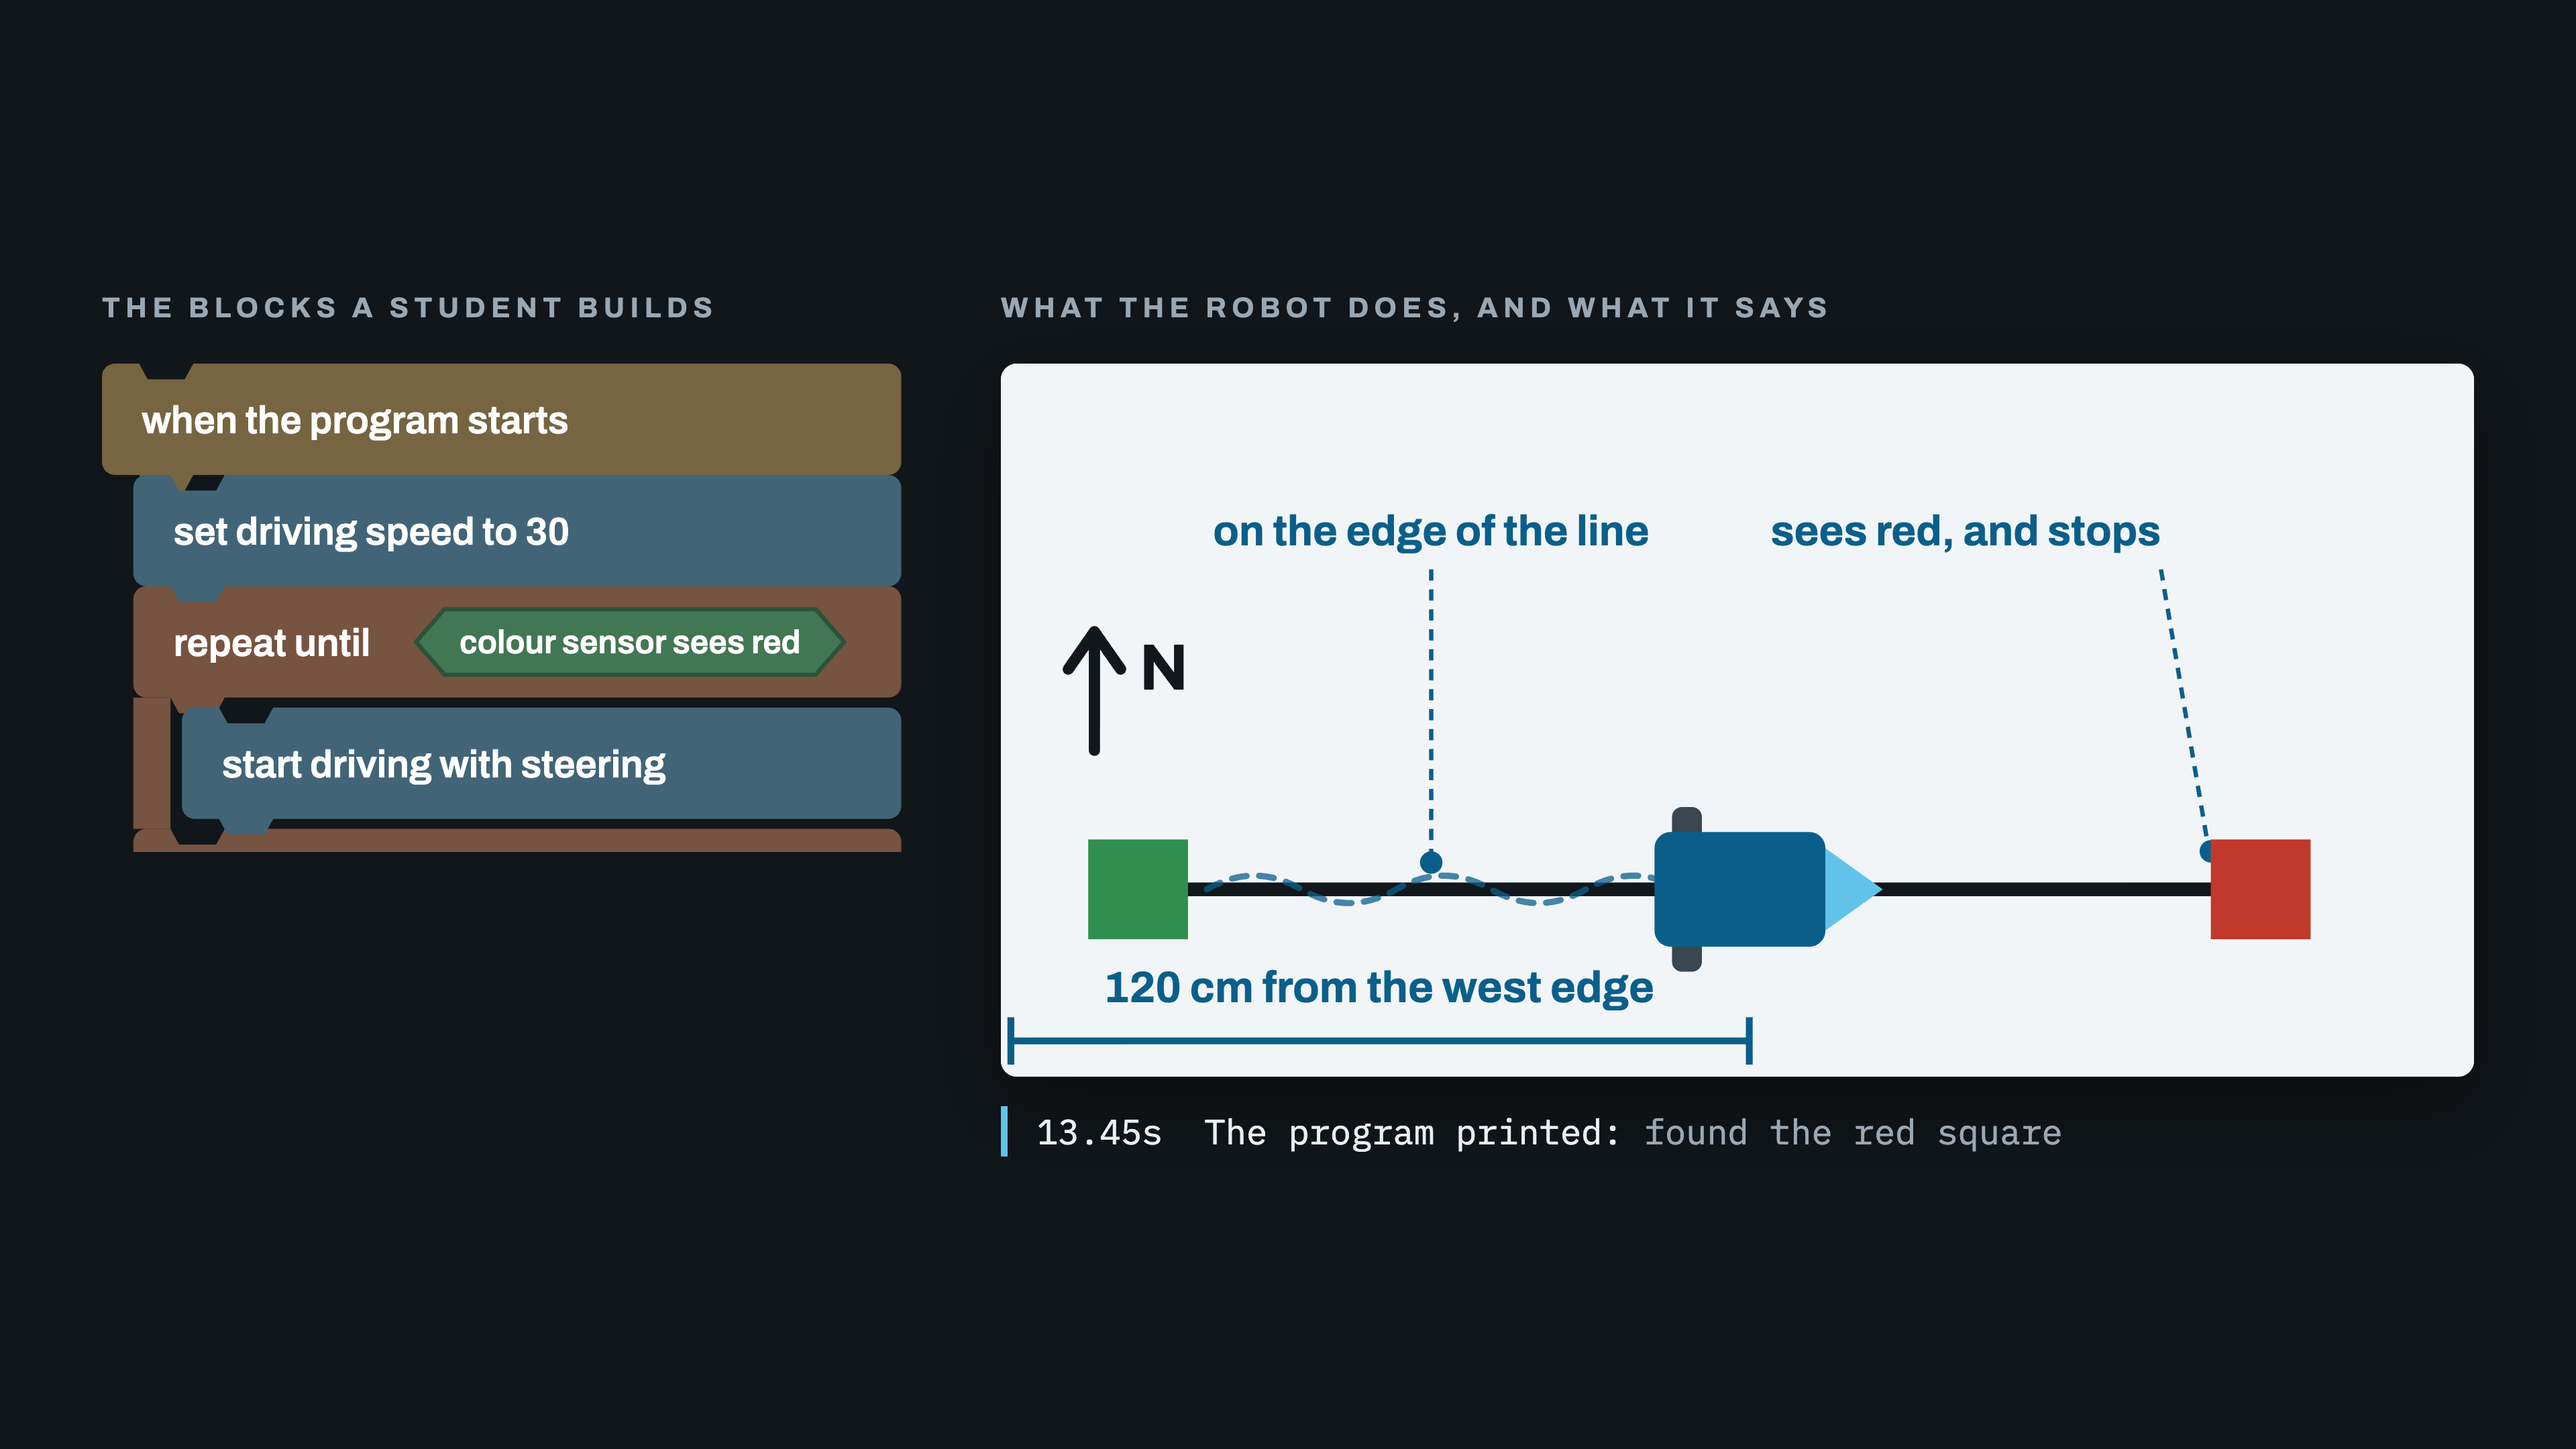
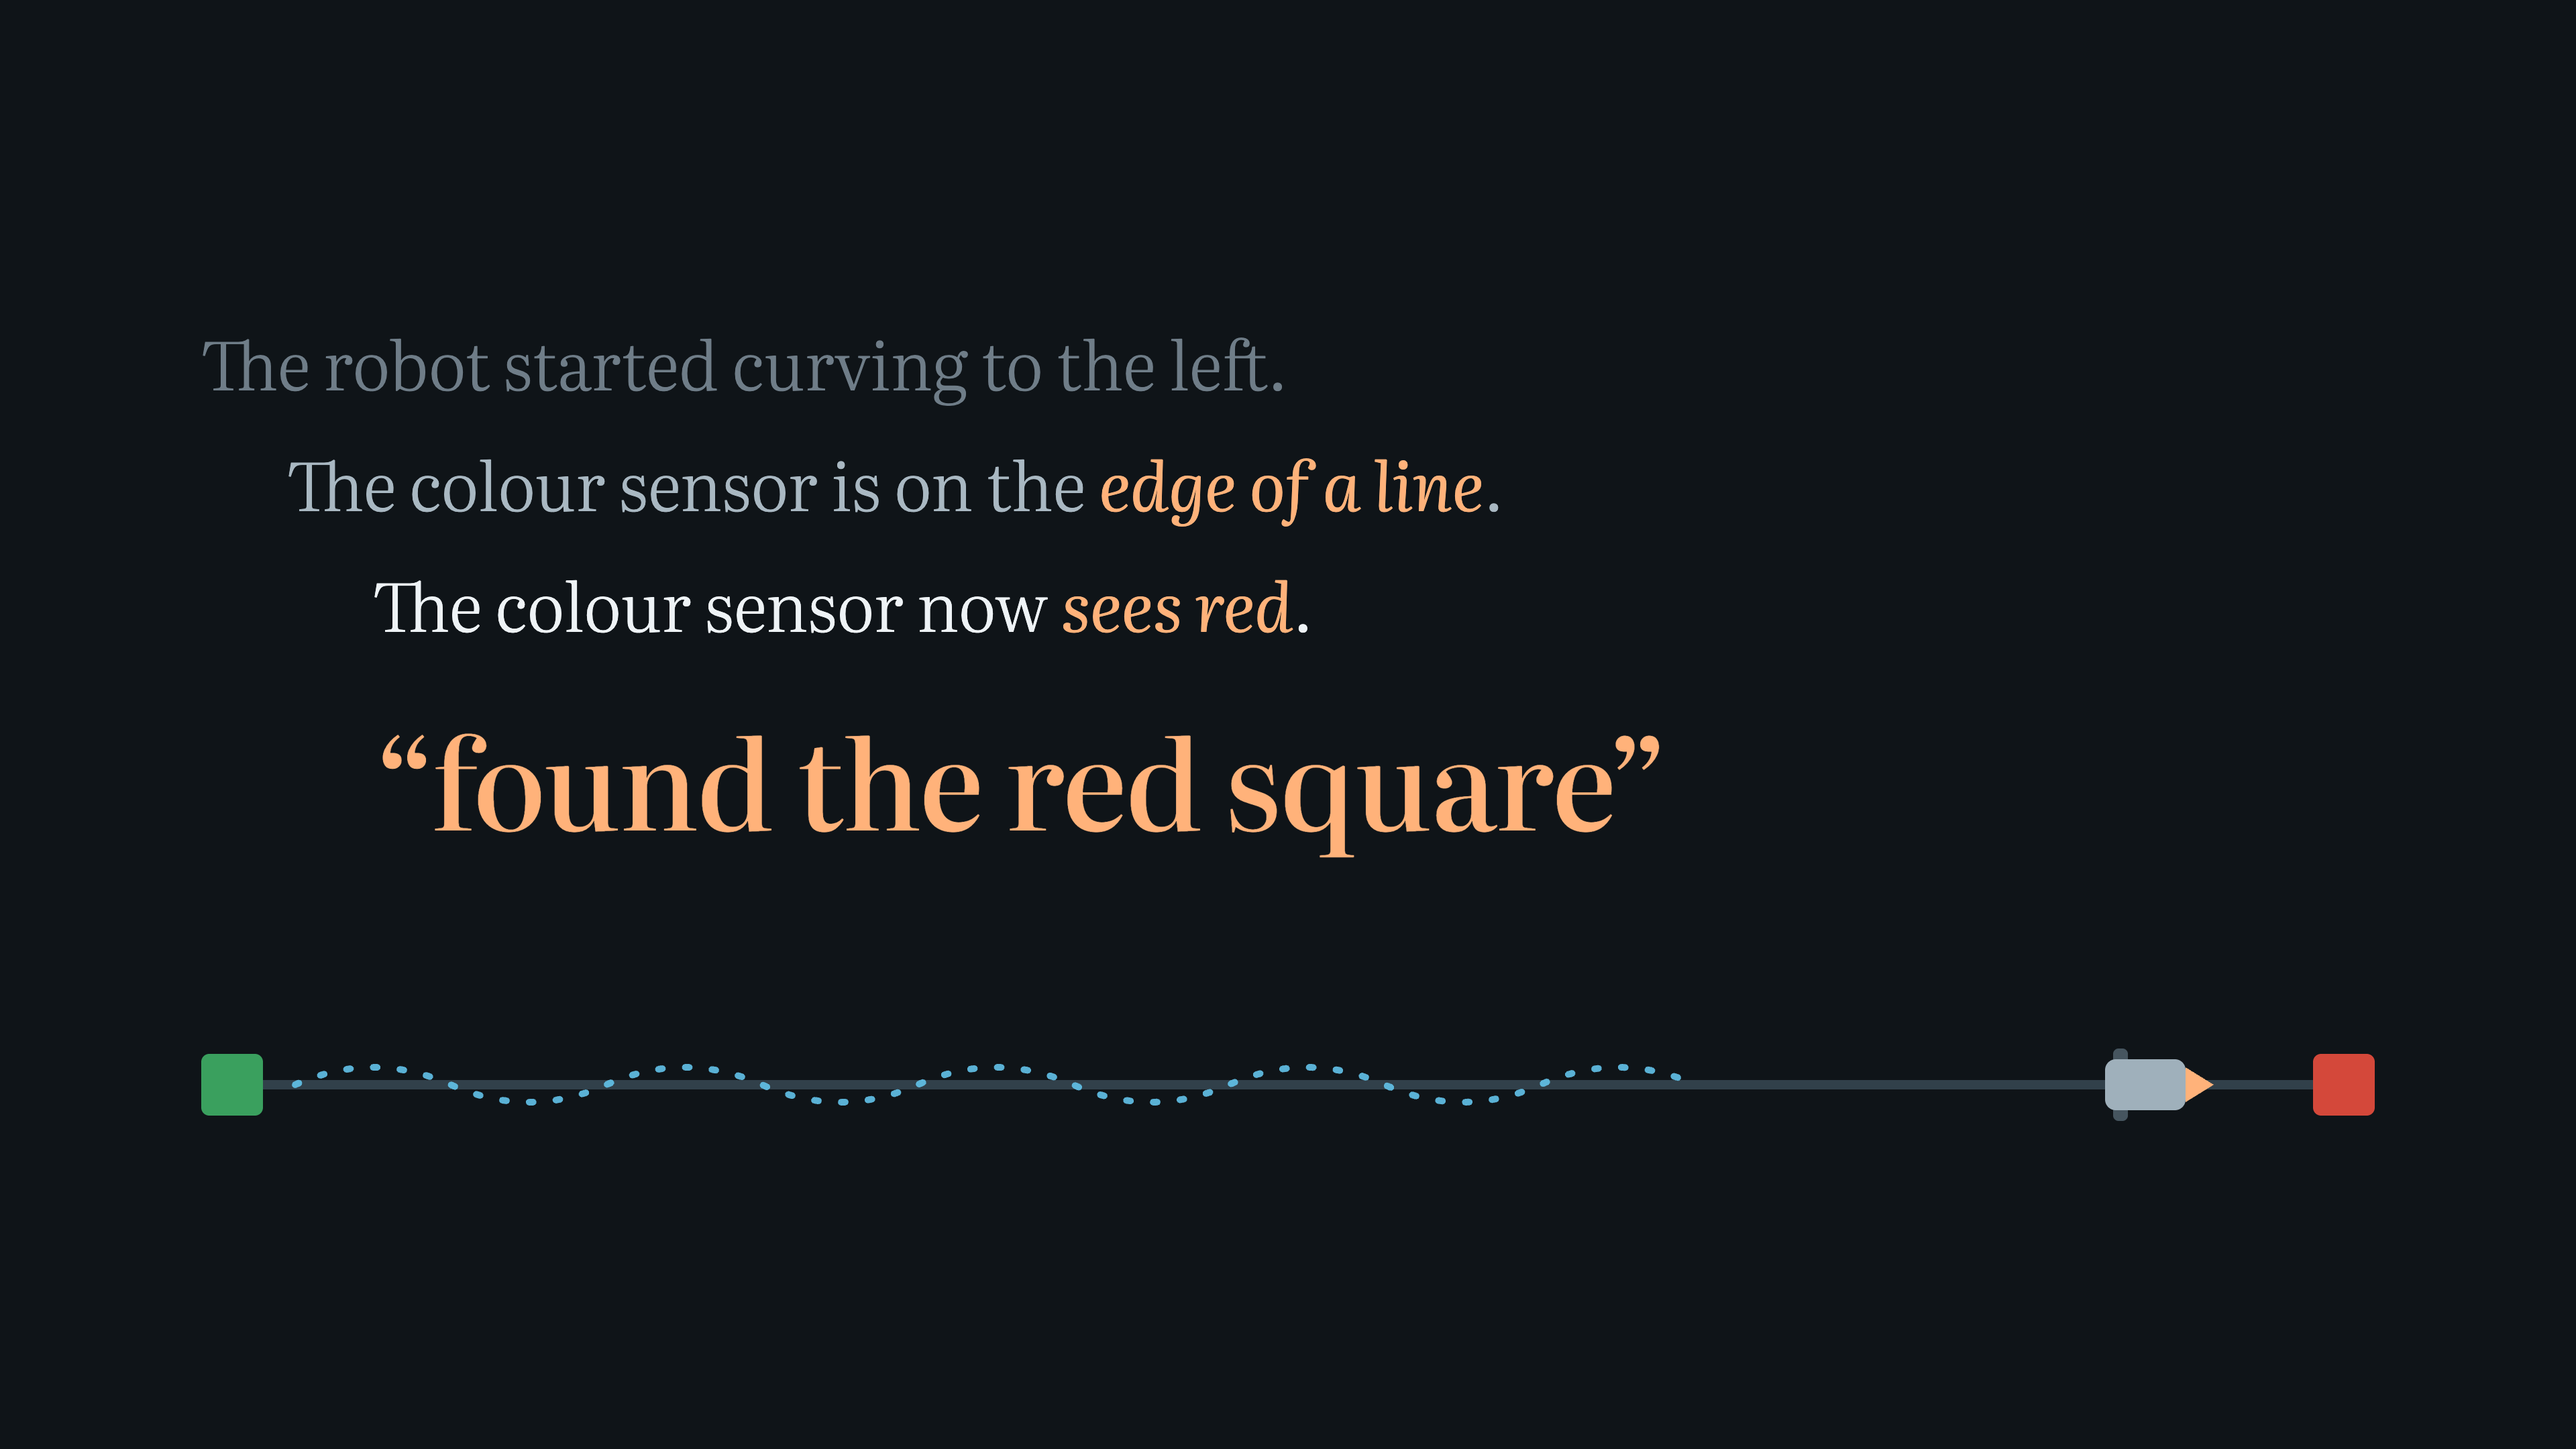
Make the header image suggest the thing rather than diagram it
The last one was a schematic: the mat to scale, the blocks with their
notches, the distance from the west edge, the north arrow where it is
really printed. All true, and the wrong job. A header image is read in
half a second by somebody scrolling, and a labelled diagram asks to be
studied.

This one is the experience instead of the system. Four sentences from a
real run, arriving one after another and growing brighter and larger as
the robot gets closer, until the one that matters — "found the red
square" — lands in full. Underneath, the journey reduced to almost
nothing: a green square, a thin line, the weave of a follower finding
the edge over and over, a robot a moment from arriving, and the red
square it is arriving at.

Nothing is labelled and nothing is measured, because the point is not
how it works. The point is that a child who cannot see the robot knows
it got there, and knows it in words.

Serif rather than the interface's own typeface, because these are
sentences being read to somebody, not controls.

diff --git a/docs/images/linkedin-hero.html b/docs/images/linkedin-hero.html
@@ -1,150 +1,57 @@
 <!doctype html>
 <meta charset="utf-8">
 <title>hero</title>
-<link rel="stylesheet" href="https://fonts.googleapis.com/css2?family=Archivo:wght@500;600;700&family=IBM+Plex+Mono:wght@400;500&display=swap">
+<link rel="stylesheet" href="https://fonts.googleapis.com/css2?family=Literata:ital,opsz,wght@0,7..72,300;0,7..72,500;1,7..72,400&display=swap">
 <style>
   :root{
-    --page:#11161a; --ink:#e8eef2; --muted:#9aa8b3; --accent:#62c3ea;
-    --mat:#f2f5f7; --dim:#0a5f8a;
+    --page:#0f1418; --ink:#eef3f6; --dim:#6f7d88; --mid:#a9b8c2;
+    --warm:#ffb27a; --go:#3aa05e; --stop:#d4483a;
   }
   *{box-sizing:border-box;margin:0;padding:0}
   html,body{width:1920px;height:1080px}
   body{
     background:var(--page); color:var(--ink);
-    font-family:Archivo,system-ui,sans-serif;
-    /* auto rows, not 1fr: a fractional row absorbs the spare height and
-       leaves the picture stranded against the top of the frame. */
-    display:grid; grid-template-columns:600px 1fr; grid-template-rows:auto auto;
-    align-content:center; align-items:start; gap:30px 70px; padding:0 76px;
+    font-family:Literata,Georgia,serif;
+    display:flex; flex-direction:column; justify-content:center;
+    padding:0 150px; overflow:hidden;
   }
-  .cap{font-size:21px;font-weight:700;letter-spacing:.2em;text-transform:uppercase;color:var(--muted)}
-  svg{display:block;width:100%;height:auto}
-  .mat{background:var(--mat);border-radius:12px;overflow:hidden;box-shadow:0 22px 54px rgba(0,0,0,.45)}
-  .right{display:flex;flex-direction:column;gap:22px}
-  .said{
-    font-family:"IBM Plex Mono",monospace;font-size:26px;line-height:1.45;color:var(--ink);
-    border-left:5px solid var(--accent);padding-left:22px;
+
+  .said{display:flex;flex-direction:column;gap:28px;margin-bottom:112px}
+  .said p{font-size:50px;font-weight:300;line-height:1.24;color:var(--dim)}
+  .said p:nth-child(2){color:var(--mid);padding-left:64px}
+  .said p:nth-child(3){color:var(--ink);padding-left:128px}
+  .said em{font-style:italic;color:var(--warm)}
+  .said p.last{
+    font-size:92px; font-weight:500; line-height:1.1; color:var(--warm);
+    padding-left:128px; margin-top:20px; letter-spacing:-.015em;
   }
-  .said span{color:var(--muted)}
+
+  /* the journey, reduced to almost nothing */
+  .run{margin-top:10px}
+  svg{display:block;width:100%;height:auto;overflow:visible}
 </style>
 <body>
-  <p class="cap">The blocks a student builds</p>
-  <p class="cap">What the robot does, and what it says</p>
-
-  <div id="blocks"></div>
-
-  <div class="right">
-    <div class="mat">
-      <!-- The First line mat: 2362 x 1143 mm, to scale. SVG y is flipped from
-           the mat's own north-up coordinates. -->
-      <svg viewBox="0 0 2362 1143" role="img" aria-label="The mat, seen from above">
-        <rect width="2362" height="1143" fill="#f2f5f7"/>
-
-        <!-- what the words point at, up in the empty half of the mat -->
-        <g font-family="Archivo, sans-serif" font-weight="700" fill="#0a5f8a">
-          <g stroke="#0a5f8a" stroke-width="7" fill="none" stroke-dasharray="18 14">
-            <line x1="690" y1="330" x2="690" y2="790"/>
-            <line x1="1860" y1="330" x2="1935" y2="770"/>
-          </g>
-          <circle cx="690" cy="800" r="18" fill="#0a5f8a"/>
-          <circle cx="1940" cy="782" r="18" fill="#0a5f8a"/>
-          <text x="690" y="292" text-anchor="middle" font-size="68">on the edge of the line</text>
-          <text x="1860" y="292" text-anchor="end" font-size="68">sees red, and stops</text>
-        </g>
-
-        <line x1="220" y1="843" x2="2000" y2="843" stroke="#12171c" stroke-width="22"/>
-        <rect x="140" y="763" width="160" height="160" fill="#2f8f4e"/>
-        <rect x="1940" y="763" width="160" height="160" fill="#c0392b"/>
-
-        <!-- a line follower finds the edge, loses it, finds it again -->
-        <path d="M330,843 q76,-44 152,0 q76,44 152,0 q76,-44 152,0 q76,44 152,0
-                 q76,-44 152,0 q76,44 152,0 q76,-44 152,0"
-              fill="none" stroke="#0a5f8a" stroke-width="10" stroke-dasharray="24 20"
-              stroke-linecap="round" opacity=".75"/>
-
-        <!-- the north arrow the mat really has printed on it -->
-        <g stroke="#12171c" stroke-width="18" fill="none" stroke-linecap="round" stroke-linejoin="round">
-          <line x1="150" y1="620" x2="150" y2="430"/>
-          <polyline points="108,490 150,430 192,490"/>
-        </g>
-        <text x="222" y="523" font-family="Archivo, sans-serif" font-size="104"
-              font-weight="700" fill="#12171c">N</text>
-
-        <!-- the robot: 1200 mm east, 300 mm north, pointing east -->
-        <g transform="translate(1200 843)">
-          <rect x="-124" y="-132" width="48" height="264" rx="16" fill="#3a4650"/>
-          <rect x="-152" y="-92" width="274" height="184" rx="26" fill="#0a5f8a"/>
-          <polygon points="122,-66 214,0 122,66" fill="#62c3ea"/>
-        </g>
-
-        <!-- measured from the nearer edge, the way the words say it -->
-        <g stroke="#0a5f8a" stroke-width="11" fill="none">
-          <line x1="12" y1="1086" x2="1200" y2="1086"/>
-          <line x1="16" y1="1048" x2="16" y2="1124"/>
-          <line x1="1200" y1="1048" x2="1200" y2="1124"/>
-        </g>
-        <text x="606" y="1024" text-anchor="middle" font-family="Archivo, sans-serif"
-              font-size="70" font-weight="700" fill="#0a5f8a">120 cm from the west edge</text>
-      </svg>
-    </div>
-
-    <p class="said">13.45s&nbsp;&nbsp;The program printed: <span>found the red square</span></p>
+  <div class="said">
+    <p>The robot started curving to the left.</p>
+    <p>The colour sensor is on the <em>edge of a line</em>.</p>
+    <p>The colour sensor now <em>sees red</em>.</p>
+    <p class="last">&ldquo;found the red square&rdquo;</p>
   </div>
 
-<script>
-// The blocks, built rather than hand-drawn, so the notches and the nesting
-// land where Blockly would put them instead of where a pen happened to go.
-const W = 560, H = 78, R = 9, NOTCH_X = 26, NOTCH_W = 26, NOTCH_D = 11;
-
-function statement(x, y, w, fill, label, indent) {
-  const n = NOTCH_X + indent * 0;
-  const d = [
-    `M${x + R},${y}`,
-    `h${n - R}`, `l6,${NOTCH_D}`, `h${NOTCH_W}`, `l6,-${NOTCH_D}`,
-    `h${w - n - NOTCH_W - 12 - R}`, `a${R},${R} 0 0 1 ${R},${R}`,
-    `v${H - 2 * R}`, `a${R},${R} 0 0 1 -${R},${R}`,
-    `h-${w - n - NOTCH_W - 12 - R}`, `l-6,${NOTCH_D}`, `h-${NOTCH_W}`, `l-6,-${NOTCH_D}`,
-    `h-${n - R}`, `a${R},${R} 0 0 1 -${R},-${R}`,
-    `v-${H - 2 * R}`, `a${R},${R} 0 0 1 ${R},-${R}`, 'z',
-  ].join(' ');
-  return `<path d="${d}" fill="${fill}"/>
-    <text x="${x + 28}" y="${y + H / 2 + 10}" font-size="27" font-weight="600" fill="#fff">${label}</text>`;
-}
-
-/** A C-block: header, a spine down its left, and a foot under the wrapped blocks. */
-function wrapper(x, y, w, fill, label, bodyHeight) {
-  const spine = 26;
-  return `
-    ${statement(x, y, w, fill, '', 0)}
-    <rect x="${x}" y="${y + H}" width="${spine}" height="${bodyHeight}" fill="${fill}"/>
-    ${statement(x, y + H + bodyHeight, w, fill, '', 0)}
-    <text x="${x + 28}" y="${y + H / 2 + 10}" font-size="27" font-weight="600" fill="#fff">${label}</text>`;
-}
-
-function hexagon(x, y, w, label) {
-  const h = 46, s = 20;
-  return `<path d="M${x + s},${y} h${w - 2 * s} l${s},${h / 2} l-${s},${h / 2} h-${w - 2 * s} l-${s},-${h / 2} z"
-            fill="#417753" stroke="#2c5238" stroke-width="3"/>
-          <text x="${x + w / 2}" y="${y + h / 2 + 8}" text-anchor="middle" font-size="23"
-                font-weight="600" fill="#fff">${label}</text>`;
-}
-
-const parts = [];
-// when the program starts — the hat every program needs
-parts.push(statement(0, 0, W, '#776541', 'when the program starts', 0));
-// its contents sit indented, the way Blockly nests them
-parts.push(statement(22, H, W - 22, '#416577', 'set driving speed to 30', 0));
-// repeat until <the sensor sees red>
-parts.push(wrapper(22, H * 2, W - 22, '#775341', '', H + 14));
-parts.push(`<text x="50" y="${H * 2 + H / 2 + 10}" font-size="27" font-weight="600" fill="#fff">repeat until</text>`);
-parts.push(hexagon(220, H * 2 + 16, 300, 'colour sensor sees red'));
-// and one block wrapped inside it
-parts.push(statement(56, H * 3 + 7, W - 56, '#416577', 'start driving with steering', 0));
-
-document.getElementById('blocks').innerHTML =
-  `<svg viewBox="0 0 ${W + 4} ${H * 4 + 30}" role="img"
-        aria-label="A stack of blocks: when the program starts, set driving speed to 30, repeat until the colour sensor sees red, start driving with steering">
-     <g font-family="Archivo, sans-serif">${parts.join('')}</g>
-   </svg>`;
-</script>
+  <div class="run">
+    <svg viewBox="0 0 1620 90" role="img" aria-label="A line from a green square to a red one, with a robot almost at the end">
+      <rect x="0" y="34" width="46" height="46" rx="6" fill="#3aa05e"/>
+      <line x1="46" y1="57" x2="1574" y2="57" stroke="#31404a" stroke-width="7"/>
+      <path d="M70,57 q58,-26 116,0 q58,26 116,0 q58,-26 116,0 q58,26 116,0
+               q58,-26 116,0 q58,26 116,0 q58,-26 116,0 q58,26 116,0 q58,-26 116,0"
+            fill="none" stroke="#62c3ea" stroke-width="5" stroke-linecap="round"
+            stroke-dasharray="3 17" opacity=".9"/>
+      <rect x="1574" y="34" width="46" height="46" rx="6" fill="#d4483a"/>
+      <g transform="translate(1455 57)">
+        <rect x="-30" y="-27" width="11" height="54" rx="4" fill="#46555f"/>
+        <rect x="-36" y="-19" width="60" height="38" rx="8" fill="#9fb0bb"/>
+        <polygon points="24,-13 45,0 24,13" fill="#ffb27a"/>
+      </g>
+    </svg>
+  </div>
 </body>
